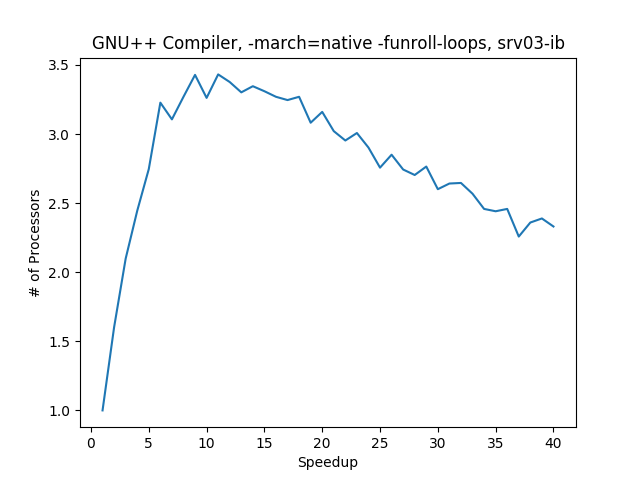
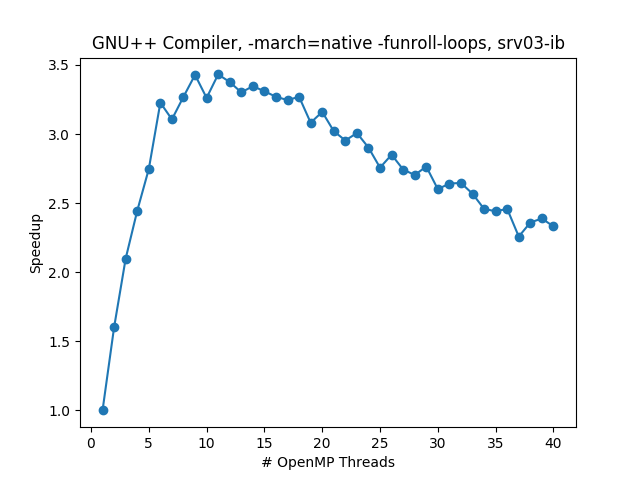
Added more figures to the 'Figures' folder

diff --git a/Report_WS1/report_WS1.tex b/Report_WS1/report_WS1.tex
@@ -140,7 +140,7 @@ AVX stands for Advanced Vector Extensions SIMD instructions. AVX-512 are the 512
 \begin{enumerate}
 	\item Was linear scalability achieved?
 
-	Linear scalability was achieved for certain numbers of processors. For the GNU++ compiler, we see a linear scaling (with regards to speed) if the number of processors is between 1 and 5, as seen in Fig. \ref{fig:gnu_omp_speedup}. We see a similar pattern for the Intel compiler between X and X, seen in Fig. . After the maximum speedup is achieved, we then see that speedup decreases sharply and performance worsens. This is especially the case for the Intel compiler---when using more than X processors, the speedup drops below 1. 
+	Linear scalability was achieved for certain numbers of processors. For the GNU++ compiler, we see a linear scaling (with regards to speed) if the number of threads is between 1 and 5, as seen in Fig. \ref{fig:gnu_omp_speedup}. We see a similar pattern for the Intel compiler between 1 and 7 threads, seen in Fig. \ref{fig:gnu_icc_speedup}. After the maximum speedup is achieved, we then see that speedup decreases sharply and performance worsens. This is especially the case for the Intel compiler---when using more than 26 processors, the speedup drops below 1. 
 
 	% Figure example
 	\begin{figure}[h!] % h=here, t=top, b=bottom, p=(extra)page, !=force
@@ -153,15 +153,16 @@ AVX stands for Advanced Vector Extensions SIMD instructions. AVX-512 are the 512
 
 	\begin{figure}[h!] % h=here, t=top, b=bottom, p=(extra)page, !=force
 	 	\begin{center}
-	 		\includegraphics[width=.7\linewidth]{OMP_ICC_speedup.png} % It searches in the Figures/ folder!
+	 		\includegraphics[width=.7\linewidth]{OMP_ICC_speedup_avg.png} % It searches in the Figures/ folder!
 	 		\caption{Intel Compiler without OpenMP: Speedup vs. \# Processors}
 	 		\label{fig:gnu_icc_speedup}
 	 	\end{center}
 	\end{figure}
+	We can also identify a problem when increasing the number of threads while keeping the domain constant - the performance of the program cannot be guaranteed if the domain is too small. We observe sudden decreases in speed up with the Intel compiler above 8 threads---this is likely due to issues with non-uniform memory access, especially since there is little transparency or control over how memory is accessed in OpenMP.
 
 	\item On which thread-count was the maximum performance achieved? Was it the same for both the Intel and the GNU compilers?
 
-	For the Intel compiler, the maximum speedup was 4.64 (11.32) with 16 processors. For the GNU++ compiler, the maximum speedup was 3.43 (19.57s) with 10 processors. While the Intel compiler experienced the best speedup (and fastest time), the speedup also rapidly decayed after a certain point (at 40 processors, the program took almost 100s to complete). The program compiled by the GNU++ compiler did also see a reduction in speedup but the overall time remained below 30s at 40 processors.
+	For the Intel compiler, the maximum speedup was 4.64 (11.32s) with 16 threads. For the GNU++ compiler, the maximum speedup was 3.43 (19.57s) with 15 threads. While the Intel compiler experienced the best speedup (and fastest time), the speedup also rapidly decayed after a certain point (at 40 processors, the program took almost 100s to complete). The program compiled by the GNU++ compiler did also see a reduction in speedup but the overall time remained below 30s at 40 processors.
 
 \end{enumerate}
 
@@ -207,12 +208,12 @@ AVX stands for Advanced Vector Extensions SIMD instructions. AVX-512 are the 512
 	The results clearly show that using MPI allows for a better strong scaling behaviour compared to OpenMP. With OpenMP we achieve a maximum speedup around 4.5, both with gcc and intel compilers, while with MPI we reach a speedup of 21 with 27 processes.
 
 	TODO
-	}
+	
 	
 \end{enumerate}
 \subsection{OpenMP + MPI}
 \begin{enumerate}
-	\item{What are the valid combinations of processes and threads?
+	\item What are the valid combinations of processes and threads?
 	Understanding that the multiple of MPI processes and OpenMP threads must be less than 40 and that the number of processes must increase in a cubic fashion, we have the following possible combinations for a single node:
 	MPI Processes: 8
 	OpenMP Threads: 1-5
@@ -221,25 +222,43 @@ AVX stands for Advanced Vector Extensions SIMD instructions. AVX-512 are the 512
 	OpenMP Threads: 1
 	
 	We omit the study of when MPI processes = 1 as the scaling should be identical to the strong scaling in the OpenMP study.
-	}
-	\item{Was linear scalability achieved?
+	
+	\item Was linear scalability achieved?
+	
 	Weak scaling is achieved when we increase the domain size proportional to the number of processes launched. Currently, if we limit our experiments to a single node, we cannot examine any interesting cases for weak scaling. We would need to keep the number of OpenMP threads per MPI process constant while increasing the domain size to scale with the number of MPI processes. The only possible case would be to examine 1, 8 , and 27 MPI processes with 1 OpenMP thread---the performance is identical to the weak scaling analysed in question 5.2.
+	
 	Strong scaling is achieved by keeping the problem size constant and increasing the number of threads.This is seen when we run with 8 MPI processes and 1-5 OpenMP threads. 
-	Strong scaling: We ran 2 experiments, one with -s 15 and one with -s 30. We see linear scaling in both cases. However, for the reduced domain size, we see that the speedup decreases with 5 OpenMP threads. This is expected because, per Amdahl's law, the maximum speedup is limited by problem size. At 5 OpenMP threads, the costs of parallelization (
-	}
-	\item{How does the performance compare to the results achieved with OpenMP in Section 5.1
+	
+	[Strong] We ran 2 experiments, one with -s 15 and one with -s 30. We see linear scaling in both cases. However, for the reduced domain size, we see in Fig \ref{fig:hybrid_strongscaling_s15} that the speedup decreases with 5 OpenMP threads. This is expected because, per Amdahl's law, the maximum speedup is limited by problem size. At 5 OpenMP threads, the cost of parallelisation outweights the benefits of parallelisation and we see a decrease in speedup. This can be remedied by increasing the overall domain size. We run the same form of strong scaling with -s=30 in Fig. \ref{fig:hybrid_strongscaling_s30} and we see that speedup continues to increase linearly at 5 OpenMP threads. For the hybrid case, the fastest speedup was for the 
+	
+			\begin{figure}[p] % h=here, t=top, b=bottom, p=(extra)page, !=force
+		 	\begin{center}
+		 		\includegraphics[width=.75\linewidth]{HYBRID_Speedup_15.png} % It searches in the Figures/ folder!
+		 		\caption{Hybrid strong scaling, s=15.}
+		 		\label{fig:hybrid_strongscaling_s15}
+		 	\end{center}
+		\end{figure}
+		
+				\begin{figure}[p] % h=here, t=top, b=bottom, p=(extra)page, !=force
+		 	\begin{center}
+		 		\includegraphics[width=.75\linewidth]{HYBRID_Speedup_30.png} % It searches in the Figures/ folder!
+		 		\caption{Hybrid strong scaling, s=30.}
+		 		\label{fig:hybrid_strongscaling_s30}
+		 	\end{center}
+		\end{figure}
+	
+	\item How does the performance compare to the results achieved with OpenMP in Section 5.1
 	and with MPI in Section 5.2?
-	We see linear scaling with increased number of OpenMP threads 
-
-	}
-	\item{Which solution is overall the fastest?
+	We see that the solutions for the hybrid are slower than either a pure OpenMP or MPI implementation. 
 	
-	}
+	\item Which solution is overall the fastest?
 	
-	\item{Would you have guessed this best combination before performing the experiments in Sec-
+	
+	
+	\item Would you have guessed this best combination before performing the experiments in Sec-
 tions 5.1, 5.2 and 5.3?
 
-	}
+	
 
 
 \end{enumerate}

diff --git a/Report_WS1/Figures/plotting.py b/Report_WS1/Figures/plotting.py
@@ -1,0 +1,14 @@
+import matplotlib.pyplot as plt
+
+x = [1.0,2.0,3.0,4.0,5.0]
+x_iter = iter(x)
+basis = 126.02
+data = [126.02, 78.25, 56.75, 45.91, 39.79]
+data = [basis/value/next(x_iter) for value in data]
+
+plt.plot(x,data, marker="o")
+plt.title("Intel compiler, -unroll flag, 1 node, 8 processes, larger domain")
+plt.xlabel("# OpenMP Threads")
+plt.ylabel("Efficiency")
+plt.show()
+
